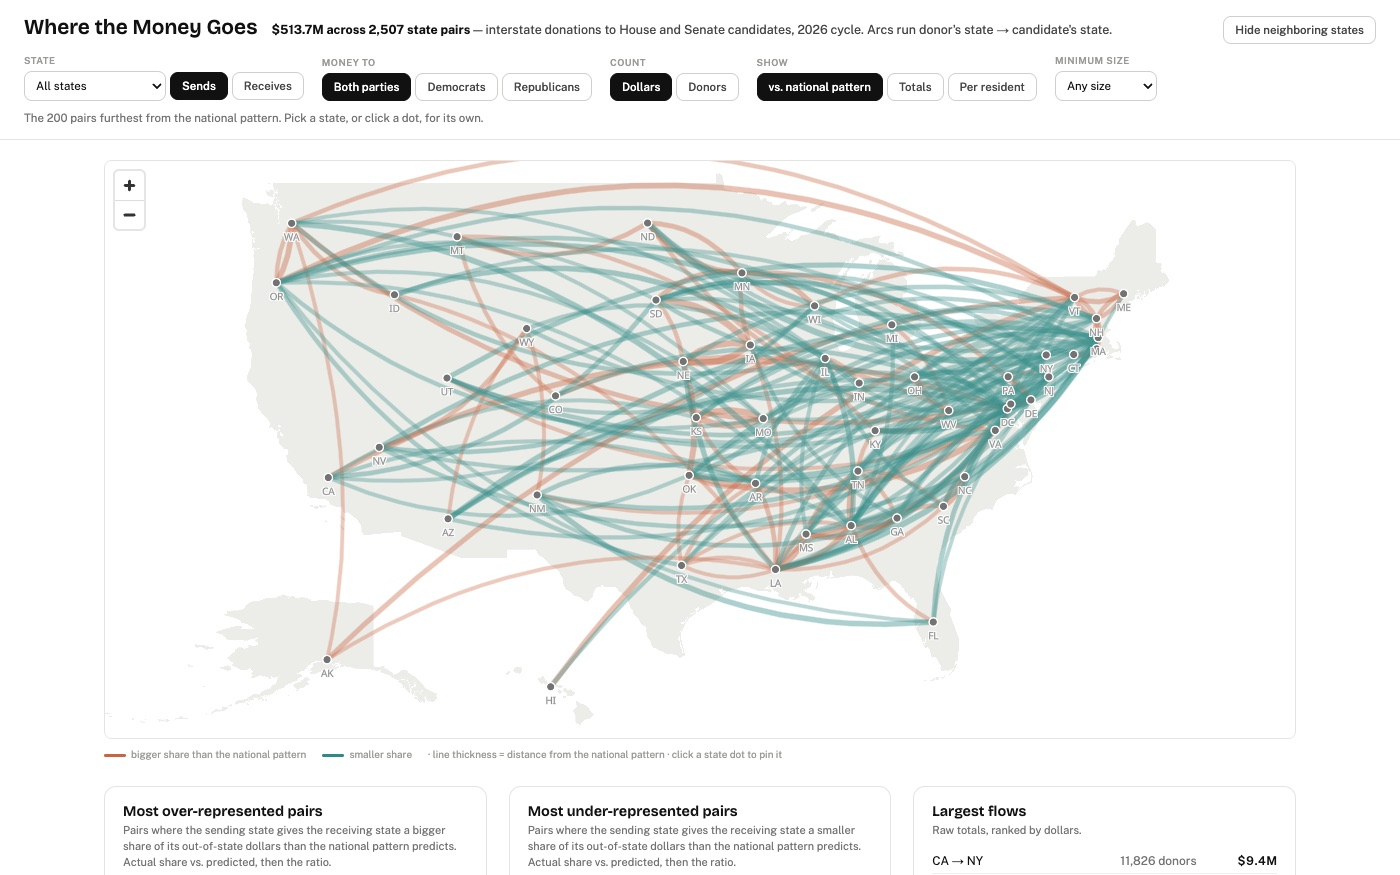
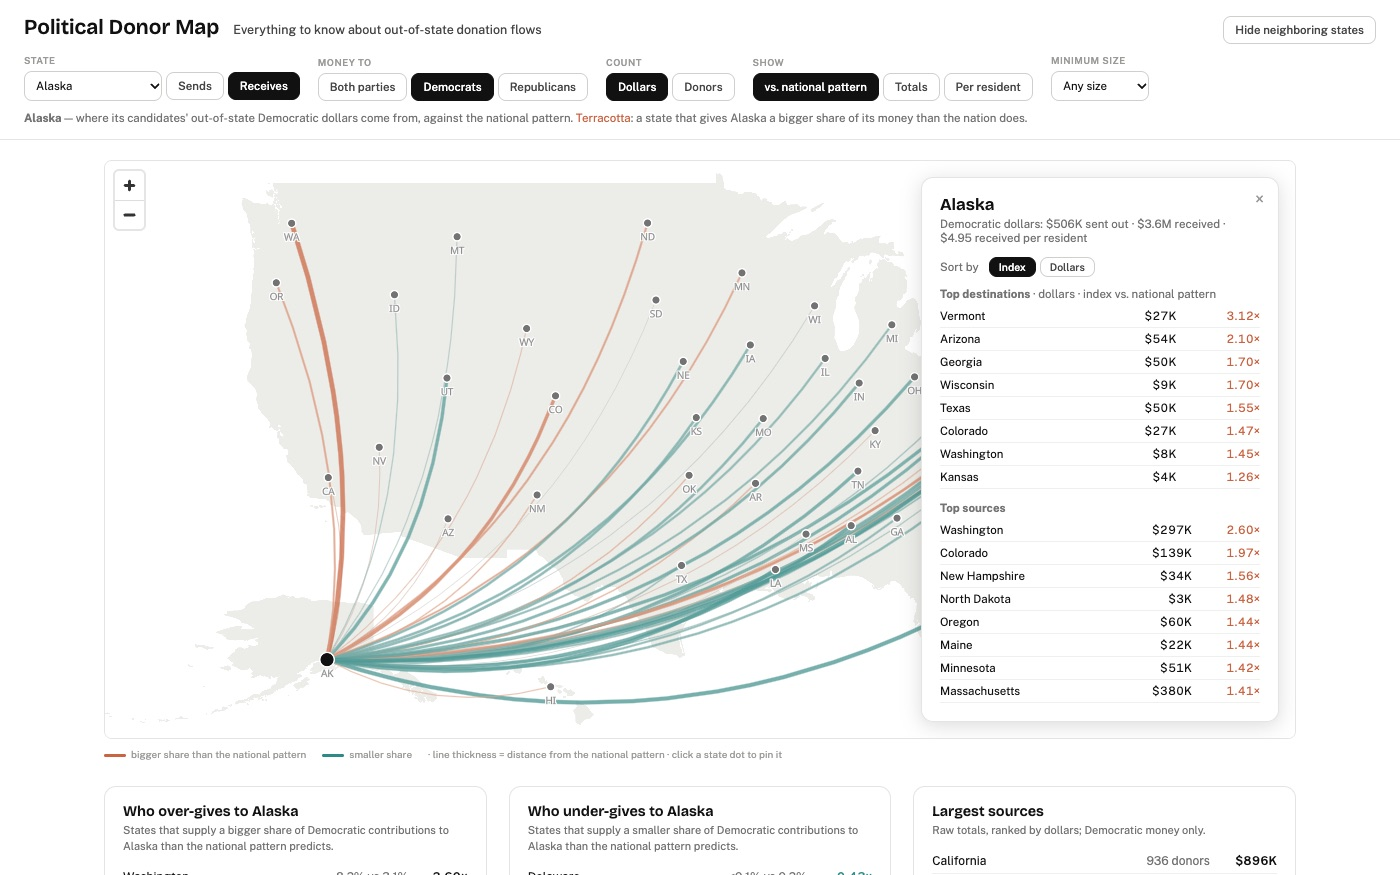
Donor map → 'Political Donor Map', live in nav and Data section; new thumbnail; deploy queue

diff --git a/src/data/projects.ts b/src/data/projects.ts
@@ -129,7 +129,7 @@ export const projects: Project[] = [
   },
   {
     slug: 'donor-map',
-    name: 'Where the Money Goes',
+    name: 'Political Donor Map',
     blurb:
       "Political money that crosses state lines — which states bankroll other states' races in 2026.",
     pitch:
@@ -139,9 +139,9 @@ export const projects: Project[] = [
       'to see where its money goes and where its candidates’ money comes from. Straight from FEC filings.',
     section: 'data',
     topic: 'Politics',
-    // Not deployed yet: live (embedded, linked) only under `astro dev`.
-    status: import.meta.env.DEV ? 'live' : 'built',
+    status: 'live',
     added: '2026-07-30',
+    href: 'https://political-donor-map.vercel.app',
     image: '/shots/donor-map.jpg',
     accent: '#6A5A99',
   },

diff --git a/src/config.ts b/src/config.ts
@@ -48,8 +48,7 @@ export const NAV: NavItem[] = [
     children: [
       { label: 'NIL Money Map', href: '/data/nil-money' },
       { label: 'Heat Check', href: '/data/heat-check' },
-      // Not deployed yet, so only linked under `astro dev`.
-      ...(import.meta.env.DEV ? [{ label: 'Where the Money Goes', href: '/data/donor-map' }] : []),
+      { label: 'Political Donor Map', href: '/data/donor-map' },
     ],
   },
   {

diff --git a/AGENTS.md b/AGENTS.md
@@ -125,7 +125,7 @@ the hub last. All Vercel projects are in the same team (`team_DwrC…`).
 | 1 | Blind Board | `nba_draft` (private `blindboard`) `main` | a3c0c67 → HEAD (8): re-theme, frame sizing, no header when embedded, prospect-card hero, settings panel, brand in draft bar, `/preview` route (the blog post's embedded board) | `cd nba_draft/app && npx vercel --prod` → the-blind-board.vercel.app |
 | 2 | Heat Check | `nba_viz` (private `heatcheck`) `main` | f19bc16, 45fdf99: re-theme, embed script | rebuild (`build_lineup_compare.py` → `port_to_live.py`), then `cd design/site && npx vercel --prod` → heat-check-nba.vercel.app |
 | 3 | NIL Money Map | `NIL money` (private `nilmoney`) `main` | 3ccd61a, cdddf95: re-theme, embed script (ddcc33e = TNS compare script, repo-only) | `python3 build_map.py && cd prototype && npx vercel --prod` → nilredistribution.vercel.app. `prototype/` checked: no TNS data. TNS integration is **not** in this build (its decisions are still open) |
-| 4 | Where the Money Goes | `political_donation_map` — **not a git repo, no Vercel project** | — | Not in this deploy. Production hub redirects `/data/donor-map` → `/data` until it gets a repo + project |
+| 4 | Political Donor Map | `political_donation_map` — local git repo since 2026-10-01 (`main`, 467020b), **no GitHub remote, no Vercel project yet** | — | First deploy creates the project: `cd political_donation_map/prototype && npx vercel --prod`; `prototype/vercel.json` names it `political-donor-map` and rewrites `/` → `flows.html`. The hub embeds `https://political-donor-map.vercel.app` — if Vercel assigns a different URL, update `src/pages/data/donor-map.astro` + `projects.ts` before step 5. Any GitHub repo for it must be **private**; `data/` + `archive/` (12 GB raw FEC, itemized) are gitignored |
 | 5 | Hub | this repo, `local-full-site` → `main` (public `datamixtape_home`) | 16 ahead of `origin/main` (which is the "coming soon" placeholder) | merge into `main` + push (auto-deploys datamixtape.com), or `vercel --prod` |
 
 **Before step 5:**
@@ -142,7 +142,7 @@ the hub last. All Vercel projects are in the same team (`team_DwrC…`).
 **About page is empty** (placeholder text removed 2026-09-30) — it needs the user's text before the hub ships, or drop it from the nav.
 
 **Still to do before deploy (the user wants these in the same batch):** bigger
-page titles and trimmed explainer text on Heat Check, NIL and Where the Money Goes.
+page titles and trimmed explainer text on Heat Check, NIL and the Political Donor Map.
 
 **Local "as-shipped" preview:** `:5173` serves the Blind Board *production
 build* (`/tmp/bb_serve.py`, SPA fallback) rather than Vite dev, so after any
